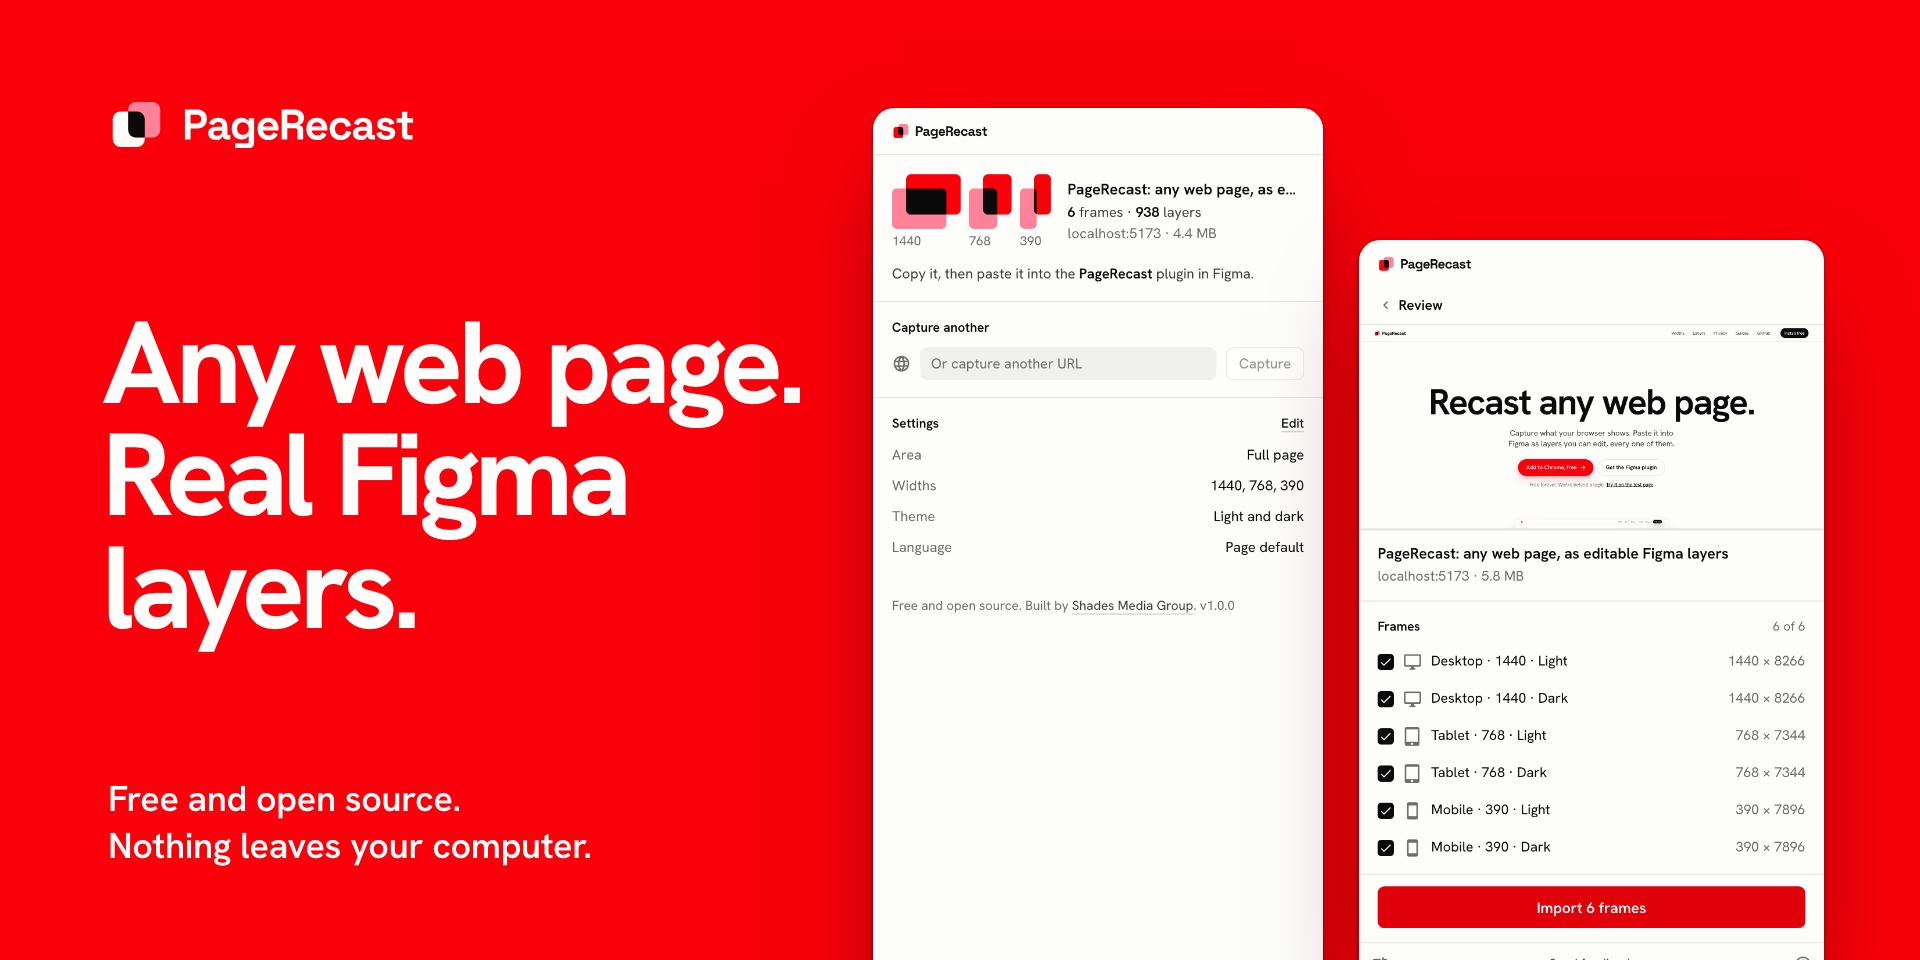
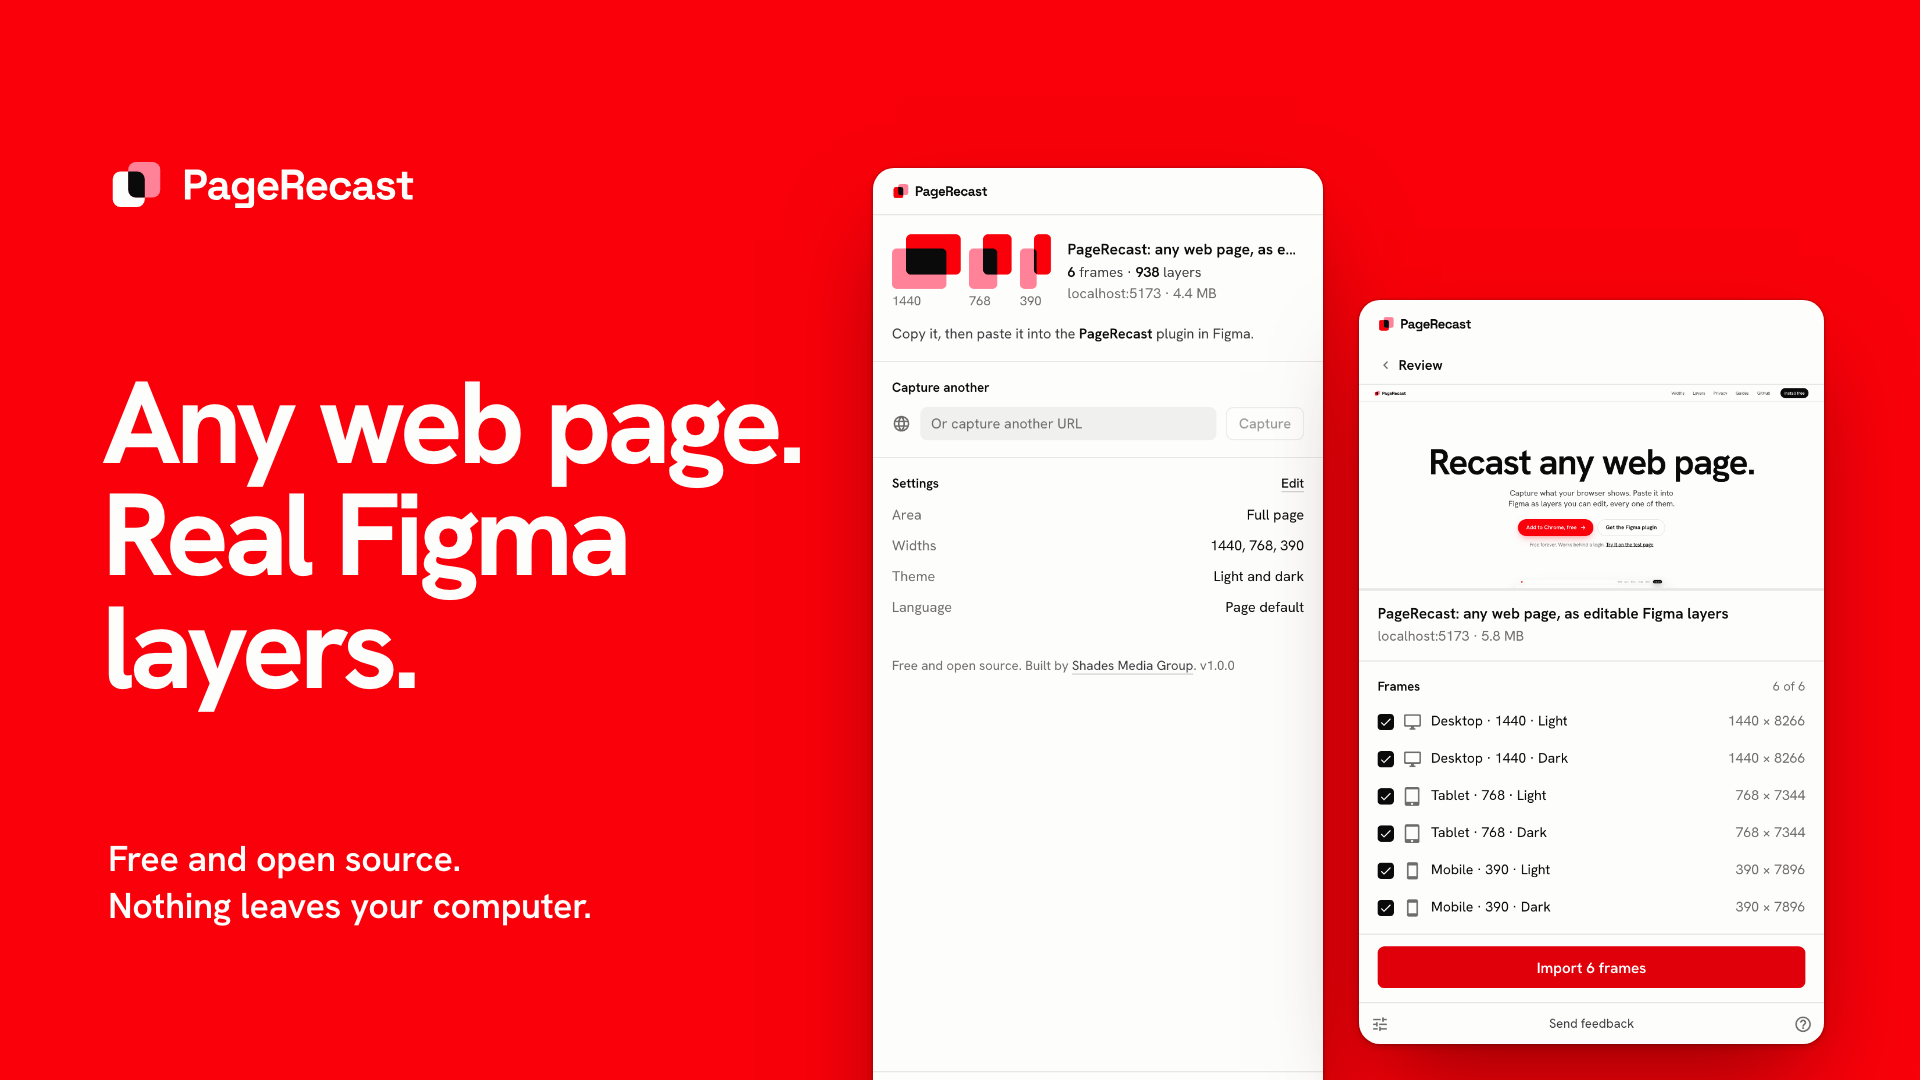
build(store): fit the hero art to any ratio and render the Figma cover at 1920 × 1080

diff --git a/docs/publishing.md b/docs/publishing.md
@@ -91,7 +91,7 @@ Source code: https://github.com/Shades-Media-Group/PageRecast
 
 ### 1. Get the plugin's ID (once)
 
-The manifest ships with a development ID. Figma issues the permanent one:
+The manifest now carries the permanent Community ID `1690893819753299295`. For a fresh fork, Figma issues a new one:
 
 1. In Figma desktop, **Plugins → Development → New plugin…**, choose **Figma design**, name it **PageRecast**, and save it anywhere.
 2. Copy the `id` from the generated `manifest.json`.
@@ -103,15 +103,15 @@ The manifest ships with a development ID. Figma issues the permanent one:
 1. **Plugins → Development → Manage plugins in development**, then **Publish** next to PageRecast.
 2. Fill in:
 
-| Field                  | Value                                                   |
-| ---------------------- | ------------------------------------------------------- |
-| Name                   | PageRecast                                              |
-| Tagline                | Turn any web page into editable Figma layers. Free.     |
-| Icon (128 × 128)       | `assets/brand/png/app-icon-128.png`                     |
-| Cover art (1920 × 960) | `assets/store/figma-cover.png`                          |
-| Tags                   | import, website, html, web to figma, capture            |
-| Support contact        | https://github.com/Shades-Media-Group/PageRecast/issues |
-| Publisher              | Shades Media Group                                      |
+| Field                   | Value                                                   |
+| ----------------------- | ------------------------------------------------------- |
+| Name                    | PageRecast                                              |
+| Tagline                 | Turn any web page into editable Figma layers. Free.     |
+| Icon (128 × 128)        | `assets/brand/png/app-icon-128.png`                     |
+| Cover art (1920 × 1080) | `assets/store/figma-cover.png`                          |
+| Tags                    | import, website, html, web to figma, capture            |
+| Support contact         | https://github.com/Shades-Media-Group/PageRecast/issues |
+| Publisher               | Shades Media Group                                      |
 
 **Description**
 
